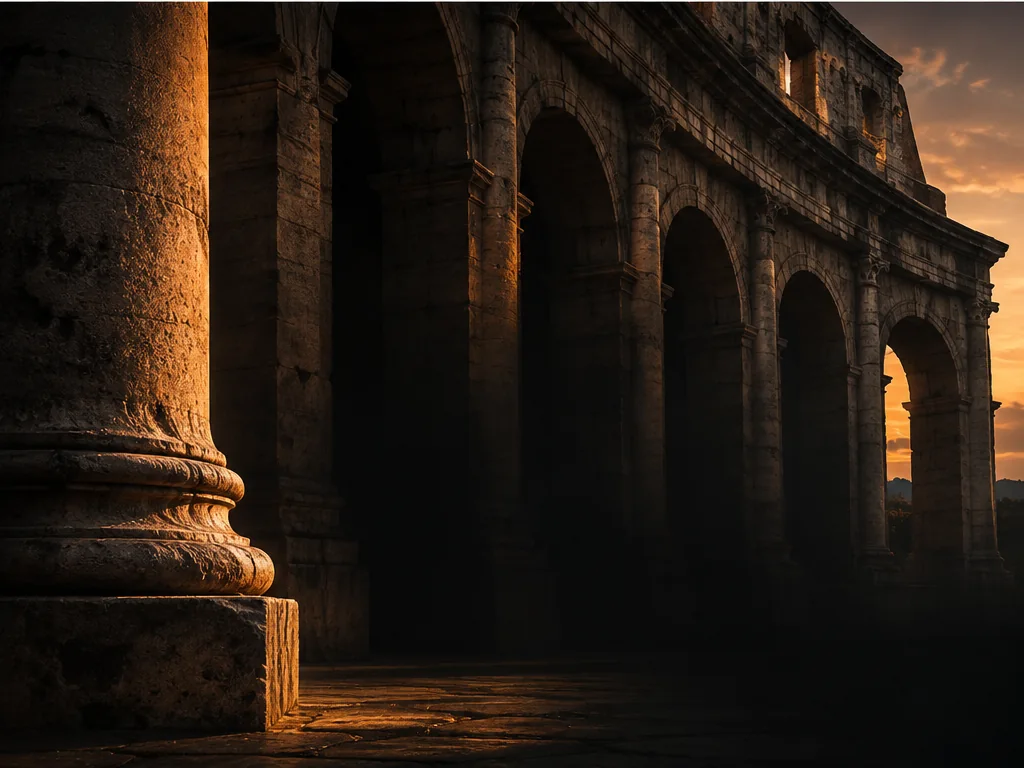
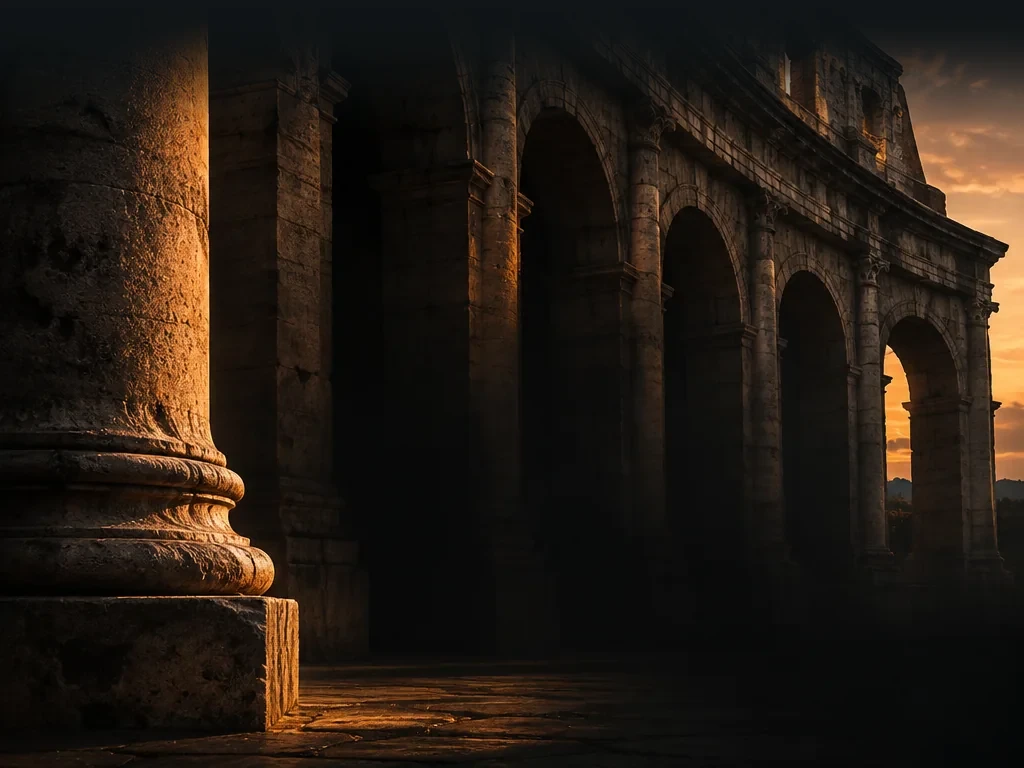
Add files via upload

diff --git a/index.html b/index.html
@@ -1,7 +1,6 @@
 <!DOCTYPE html>
 <html lang="es" class="h-full bg-slate-950 text-slate-100">
 <head>
-    <meta name="viewport" content="width=device-width, initial-scale=1.0, viewport-fit=cover">
     <meta name="color-scheme" content="dark">
     <meta name="mobile-web-app-capable" content="yes">
     <style>html,body{background:#101517!important;color-scheme:dark}html{min-height:100%;}body{min-height:100dvh;margin:0}</style>
@@ -81,7 +80,7 @@
 
 
 
-<<style id="archi-viewport-v95">
+<style id="archi-viewport-v95">
 /* E95: no fijar altura a screen.height. Dejar que iOS resuelva inset:0
    en su viewport real; mantener un fondo coherente detrás de toda la app. */
 html { background-color:#101517 !important; min-height:100%; }
@@ -91,23 +90,24 @@ html:has(#splash-screen:not(.hidden)),
 body:has(#splash-screen:not(.hidden)) { background-color:#101517 !important; }
 body #splash-screen,body #splash-screen:not(.hidden) {
   position:fixed!important; inset:0!important; width:100%!important;
-  height:100dvh!important; min-height:100dvh!important; max-height:none!important;
+  height:auto!important; min-height:0!important; max-height:none!important;
   margin:0!important; padding:0!important; overflow:hidden!important;
   border:0!important; border-radius:0!important; z-index:99999!important;
   background:#101517!important; transform:none!important;
 }
-body #splash-screen .archi-splash-art,
-body #splash-screen .archi-splash-photo {
+body #splash-screen .archi-splash-art {
   position:absolute!important; inset:0!important; width:100%!important;
-  height:100%!important; max-width:none!important; max-height:none!important;
-  object-fit:cover!important; object-position:center top!important;
-  background:none!important; display:block!important;
+  height:100%!important; background:none!important;
+}
+body #splash-screen .archi-splash-photo {
+  display:block!important; width:100%!important; height:100%!important;
+  max-width:none!important; max-height:none!important;
+  object-fit:cover!important; object-position:center center!important;
 }
 @media(max-width:699px) {
   body #app { min-height:100svh!important; }
 }
 </style>
-
 <style id="archi-ios-safe-area-e100">
 /* E100: la superficie del área de sistema sigue el estado visual de la app. */
 html { background-color:#101517 !important; }
@@ -249,7 +249,7 @@ html:has(body.archi-intro-active):not(:has(#splash-screen:not(.hidden))) { backg
  });
 })();
 </script>
-<link rel="stylesheet" href="styles/vb8-cinematic.css?v=8-3">
+<link rel="stylesheet" href="styles/vb8-cinematic.css?v=8-6">
 </head>
 <body data-archi-active-tab="explore" class="archi-intro-active h-full flex flex-col font-sans bg-slate-950 text-slate-100 antialiased selection:bg-amber-500 selection:text-slate-950">
 
@@ -285,7 +285,7 @@ html:has(body.archi-intro-active):not(:has(#splash-screen:not(.hidden))) { backg
 </section>
     <!-- Splash Screen (Pantalla de presentación por 2.5 segundos) -->
     <div id="splash-screen" class="fixed inset-0 z-50 transition-opacity duration-700" aria-label="ArchiSpotter">
-        <div class="archi-splash-art" role="img" aria-label="ArchiSpotter, arquitectura y naturaleza"><img class="archi-splash-photo" loading="eager" src="assets/cinematic-welcome.webp" alt="" aria-hidden="true" decoding="sync" fetchpriority="high"></div>
+        <div class="archi-splash-art" role="img" aria-label="ArchiSpotter, arquitectura y naturaleza"><img class="archi-splash-photo" loading="eager" src="assets/cinematic-welcome.webp?v=vb86" alt="" aria-hidden="true" decoding="sync" fetchpriority="high"></div>
         <div class="archi-splash-brand" aria-label="ArchiSpotter">
             <img src="assets/archispotter-mark.svg" alt="Logo de ArchiSpotter" />
             <div class="archi-splash-brand-name">ARCHISPOTTER</div>

diff --git a/styles/vb8-cinematic.css b/styles/vb8-cinematic.css
@@ -64,3 +64,39 @@ html,body{background:#101517!important;color-scheme:dark!important}
 /* vB8.3: neutraliza los estilos antiguos crema en todas las fases de bienvenida. */
 html,body,body.archi-intro-active,html:has(body.archi-intro-active),html:has(#splash-screen:not(.hidden)),body:has(#splash-screen:not(.hidden)),body #splash-screen,body #splash-screen:not(.hidden),#archi-onboarding{background-color:#101517!important;color-scheme:dark!important}
 #splash-screen .archi-splash-brand{display:flex!important;visibility:visible!important;opacity:1!important;z-index:999!important}
+
+/* vB8.5: la franja reservada por iOS se integra con el borde superior de las fotografías. */
+html:has(#splash-screen:not(.hidden)),
+body:has(#splash-screen:not(.hidden)),
+html:has(body.archi-intro-active),
+body.archi-intro-active {
+ background-color:#f8f0de!important;
+}
+#splash-screen .archi-splash-art {background-color:#f8f0de!important;}
+#archi-onboarding {
+ background-image:linear-gradient(180deg,rgba(248,240,222,0) 0%,rgba(9,14,16,.05) 17%,rgba(9,14,16,.82) 60%,#101517 100%),url('../assets/cinematic-welcome.webp')!important;
+ background-color:#f8f0de!important;
+}
+#archi-auth-panel {background-color:#f8f0de!important;}
+
+/* vB8.6: fondo carbon en barra iOS y fundido fotografico superior. */
+:root,html,body,body.archi-intro-active,
+html:has(#splash-screen:not(.hidden)),
+body:has(#splash-screen:not(.hidden)),
+html:has(body.archi-intro-active){
+ background:#101517!important;background-color:#101517!important;color-scheme:dark!important;
+}
+#splash-screen,#splash-screen .archi-splash-art,
+#archi-onboarding,#archi-auth-panel{background-color:#101517!important}
+#archi-onboarding{
+ background-image:linear-gradient(180deg,rgba(16,21,23,0) 0%,rgba(9,14,16,.05) 20%,rgba(9,14,16,.82) 60%,#101517 100%),url('../assets/cinematic-welcome.webp')!important;
+}
+#archi-onboarding .archi-lang-btn,
+#archi-onboarding .archi-lang-btn[aria-pressed="true"],
+#archi-onboarding .archi-lang-btn[aria-pressed="false"]{
+ background:#e3b45d!important;color:#171b1c!important;border:1px solid #e3b45d!important;
+ box-shadow:0 2px 8px rgba(0,0,0,.22)!important;
+}
+#archi-onboarding .archi-lang-btn[aria-pressed="true"]{
+ outline:2px solid #fff0c8!important;outline-offset:2px!important;
+}
